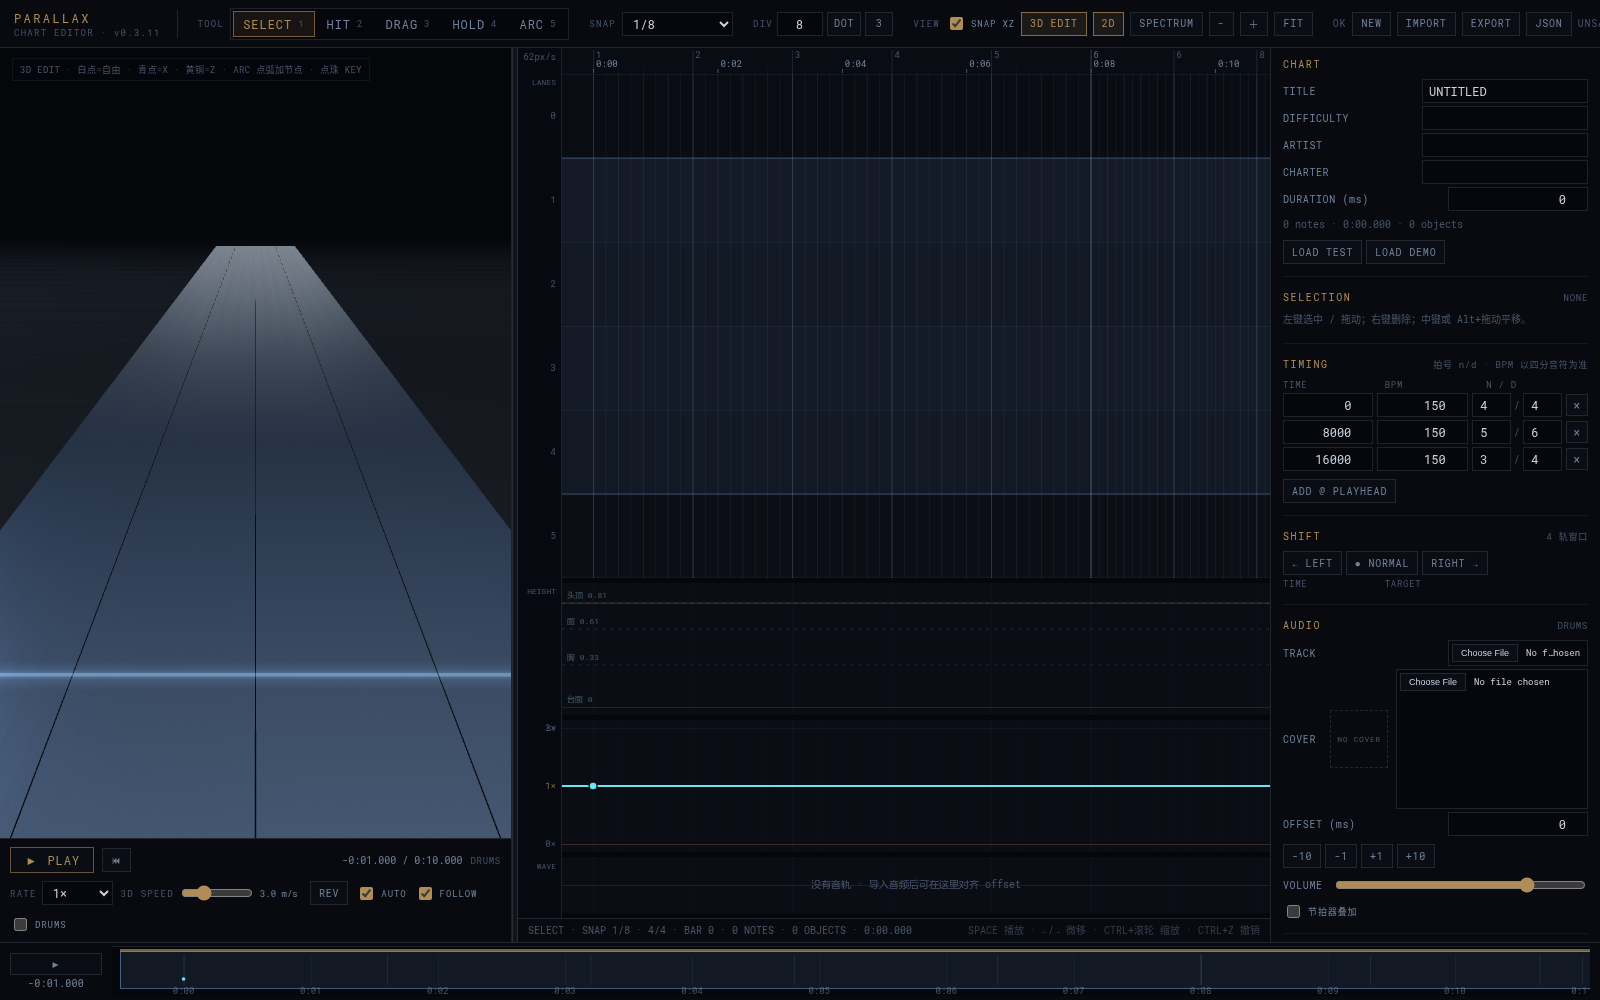
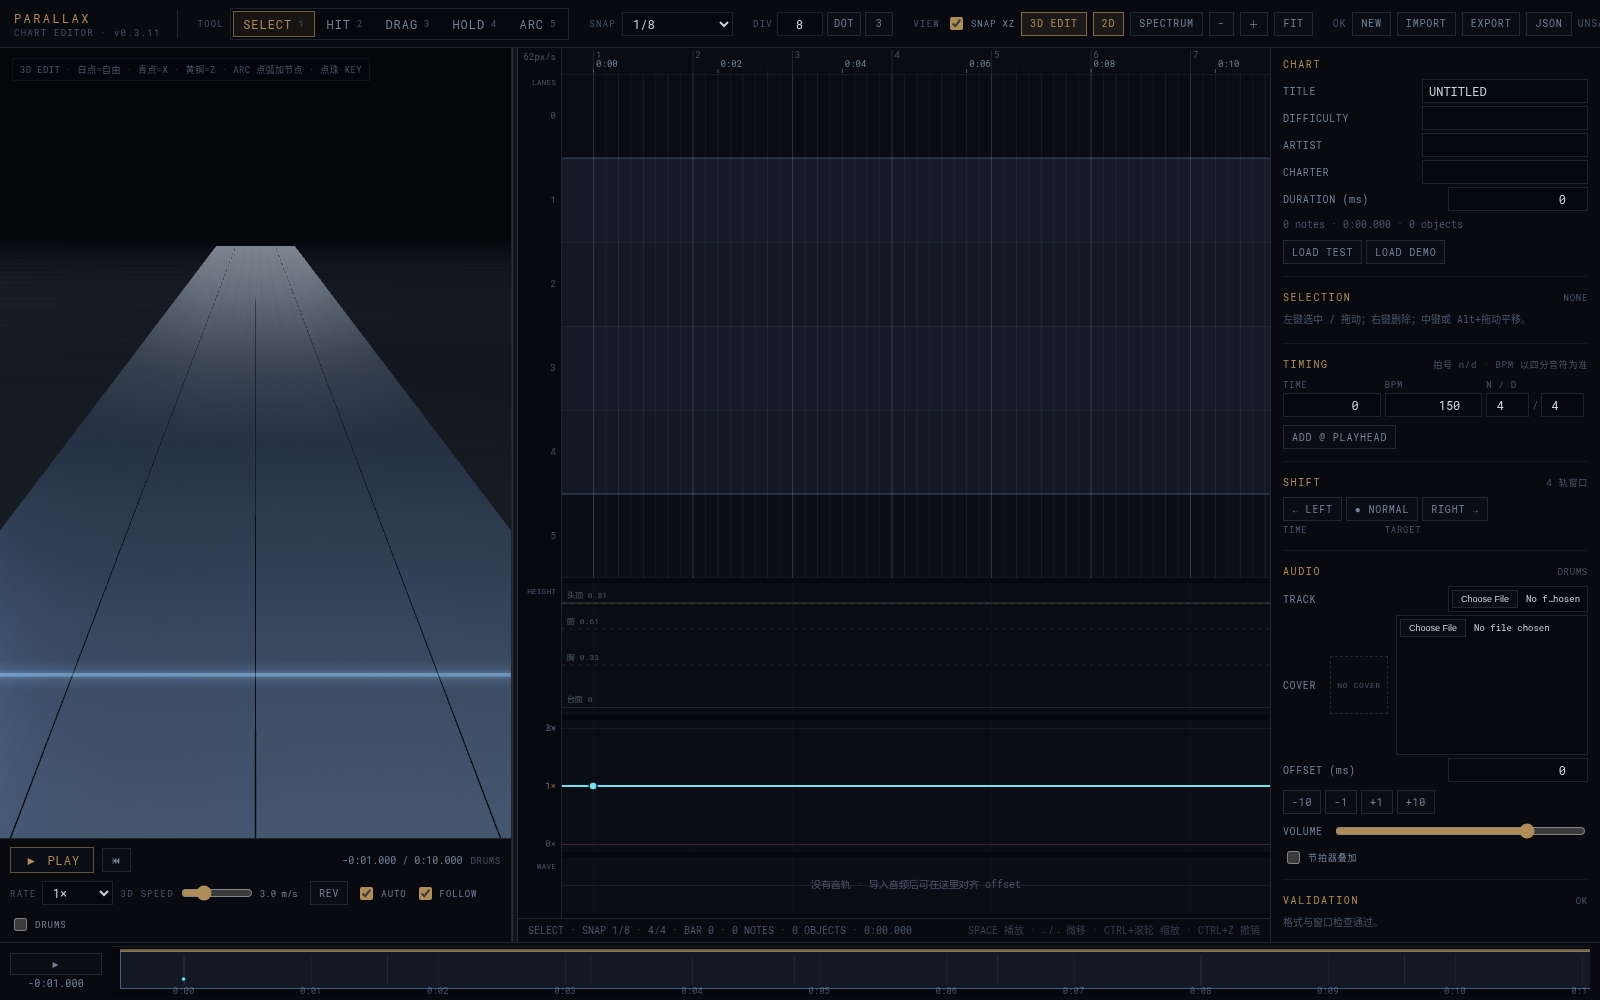
feat(editor): snap presets follow the time signature

diff --git a/prototype/src/editor/model.ts b/prototype/src/editor/model.ts
@@ -68,7 +68,29 @@ export interface SnapPreset {
   spec: SnapSpec;
 }
 
-/** 只保留常用预设；五连 / 附点 / 自定义拍号由 DIV、DOT、3 三个控件直接改。 */
+/**
+ * 按拍号给 SNAP 预设：分母就是基准拍，k = 每拍细分几份。
+ * `4/4` → 1/4 · 1/8 · 1/12(三连) · 1/16 · 1/20(五连) · 1/24 · 1/32；
+ * `x/6` → 1/6 · 1/12 · 1/18(三连) · 1/24 · 1/30(五连) · 1/36 · 1/48。
+ * `div` 始终按“每全音符几份”记，所以标签的数字就是真实音值。
+ */
+export function snapPresetsFor(denominator: number): SnapPreset[] {
+  const d = Math.max(1, Math.round(denominator));
+  const spec = (div: number): SnapSpec => ({ div, dotted: false, triplet: false });
+  return [
+    { id: 'off', label: 'OFF（自由）', spec: SNAP_OFF },
+    { id: `1/${d}`, label: `1/${d}`, spec: spec(d) },
+    { id: `1/${d * 2}`, label: `1/${d * 2}`, spec: spec(d * 2) },
+    { id: `1/${d * 3}`, label: `1/${d * 3}（三连）`, spec: spec(d * 3) },
+    { id: `1/${d * 4}`, label: `1/${d * 4}`, spec: spec(d * 4) },
+    { id: `1/${d * 5}`, label: `1/${d * 5}（五连）`, spec: spec(d * 5) },
+    { id: `1/${d * 6}`, label: `1/${d * 6}`, spec: spec(d * 6) },
+    { id: `1/${d * 8}`, label: `1/${d * 8}`, spec: spec(d * 8) },
+    { id: 'custom', label: 'CUSTOM…', spec: spec(d * 2) },
+  ];
+}
+
+/** 4/4 的默认预设（页面初始 / 还没读到谱面时用）。 */
 export const SNAP_PRESETS: SnapPreset[] = [
   { id: 'off', label: 'OFF（自由）', spec: SNAP_OFF },
   { id: '1/4', label: '1/4', spec: { div: 4, dotted: false, triplet: false } },
@@ -98,14 +120,14 @@ export function snapLabel(spec: SnapSpec): string {
   return label;
 }
 
-export function snapPreset(id: string): SnapPreset | undefined {
-  return SNAP_PRESETS.find((preset) => preset.id === id);
+export function snapPreset(id: string, denominator = 4): SnapPreset | undefined {
+  return snapPresetsFor(denominator).find((preset) => preset.id === id);
 }
 
 /** 当前参数对应的预设 id；没有完全匹配的就是 CUSTOM。 */
-export function snapPresetFor(spec: SnapSpec): string {
+export function snapPresetFor(spec: SnapSpec, denominator = 4): string {
   if (spec.div <= 0) return 'off';
-  const match = SNAP_PRESETS.find(
+  const match = snapPresetsFor(denominator).find(
     (preset) =>
       preset.id !== 'custom' &&
       preset.spec.div === spec.div &&
@@ -204,8 +226,8 @@ export interface GridLine {
 /**
  * 收集 [from, to] 内的小节 / 拍 / 细分线。
  *
- * `subBeats` 是细分步长（拍）：0.25 = 每拍 4 格。> 1 只在拍线上画，
- * 避免 1/3（4/3 拍）这种吸附把网格画成非整数拍。
+ * `subBeats` 以**四分音符**为单位（和 `snapBeats` 一致）：0.25 = 十六分音符。
+ * 段内再按拍号换算成“拍”：`x/6` 的 1/8 音符 = 0.75 拍，网格照样对齐。
  */
 export function collectGridLines(chart: Chart, from: number, to: number, subBeats: number): GridLine[] {
   const lines: GridLine[] = [];
@@ -222,8 +244,10 @@ export function collectGridLines(chart: Chart, from: number, to: number, subBeat
     if (end < start) continue;
 
     const beat = beatMsOf(point);
-    const stepMs = beat * step;
-    const beatsPerBar = meterOf(point).numerator;
+    const { denominator, numerator: beatsPerBar } = meterOf(point);
+    // 1 个四分音符 = 4/denominator 拍
+    const stepBeats = (step * denominator) / 4;
+    const stepMs = beat * stepBeats;
     // 从段起点往前找第一个 >= start 的网格。
     const firstIndex = Math.ceil((start - point.time) / stepMs - 1e-9);
     for (let index = firstIndex; ; index += 1) {
@@ -231,10 +255,10 @@ export function collectGridLines(chart: Chart, from: number, to: number, subBeat
       if (time > end + 1e-6) break;
       if (time < from - 1e-6) continue;
       // 落在整拍上才是拍 / 小节，其余都是细分（对 1/16、1/12、1/8 … 都成立）。
-      const beatIndex = index * step;
-      const rounded = Math.round(beatIndex);
+      const beatPos = (time - point.time) / beat;
+      const rounded = Math.round(beatPos);
       const kind: GridLine['kind'] =
-        Math.abs(beatIndex - rounded) < 1e-6
+        Math.abs(beatPos - rounded) < 1e-6
           ? rounded % beatsPerBar === 0
             ? 'bar'
             : 'beat'
@@ -243,6 +267,32 @@ export function collectGridLines(chart: Chart, from: number, to: number, subBeat
       if (lines.length > 4000) return lines;
     }
   }
+
+  // 网格步长不一定整除小节（5/6 上用 1/8 音符时就是这样），
+  // 所以小节线再单独补一遍，保证换拍号后小节不会被漏画。
+  const seen = new Set<number>(lines.map((line) => Math.round(line.time * 2)));
+  for (let i = 0; i < timing.length; i += 1) {
+    const point = timing[i]!;
+    const next = timing[i + 1];
+    const segmentEnd = next ? next.time : to;
+    const barMs = beatMsOf(point) * meterOf(point).numerator;
+    if (!(barMs > 0)) continue;
+    const start = Math.max(point.time, from);
+    const end = Math.min(segmentEnd, to);
+    if (end < start) continue;
+    const firstBar = Math.ceil((start - point.time) / barMs - 1e-9);
+    for (let n = firstBar; ; n += 1) {
+      const time = point.time + n * barMs;
+      if (time > end + 1e-6) break;
+      const key = Math.round(time * 2);
+      if (seen.has(key)) continue;
+      seen.add(key);
+      lines.push({ time, kind: 'bar' });
+      if (lines.length > 4000) break;
+    }
+  }
+
+  lines.sort((a, b) => a.time - b.time);
   return lines;
 }
 

diff --git a/prototype/src/editor/controller.ts b/prototype/src/editor/controller.ts
@@ -28,6 +28,7 @@ import {
   snapLabel,
   snapPreset,
   snapPresetFor,
+  snapPresetsFor,
   snapTime,
   sortChart,
   timingAt,
@@ -170,6 +171,8 @@ export class EditorController implements EditorHost, InspectorHost {
   private uiDirty = true;
   private lastUiTime = Number.NaN;
   private readonly lastUi = { play: '', overview: '', time: '', audio: '', reverse: '', status: '' };
+  /** 播放头所在段的拍号分母；SNAP 预设按它重建。 */
+  private snapDenominator = 4;
   private follow = true;
 
   constructor(elements: EditorElements) {
@@ -319,7 +322,7 @@ export class EditorController implements EditorHost, InspectorHost {
     }
     this.syncSnapUi();
     this.elements.snap.addEventListener('change', () => {
-      const preset = snapPreset(this.elements.snap.value);
+      const preset = snapPreset(this.elements.snap.value, this.snapDenominator);
       if (preset && preset.id !== 'custom') this.setSnap(preset.spec);
     });
     this.elements.snapDiv.addEventListener('change', () => {
@@ -709,8 +712,25 @@ export class EditorController implements EditorHost, InspectorHost {
     this.updateUi();
   }
 
+  /** 按拍号重建 SNAP 下拉：分母一变，预设的数字就跟着变。 */
+  private rebuildSnapOptions(denominator: number): void {
+    const select = this.elements.snap;
+    select.replaceChildren();
+    for (const preset of snapPresetsFor(denominator)) {
+      const node = document.createElement('option');
+      node.value = preset.id;
+      node.textContent = preset.label;
+      select.append(node);
+    }
+    // 当前 DIV 不在新拍号的预设里：把 CUSTOM 标签写清楚，别只剩一个 CUSTOM…
+    if (snapPresetFor(this.snap, denominator) === 'custom') {
+      const custom = select.querySelector<HTMLOptionElement>('option[value="custom"]');
+      if (custom) custom.textContent = `CUSTOM · 1/${this.snap.div}`;
+    }
+  }
+
   private syncSnapUi(): void {
-    this.elements.snap.value = snapPresetFor(this.snap);
+    this.elements.snap.value = snapPresetFor(this.snap, this.snapDenominator);
     this.elements.snapDiv.value = String(this.snap.div);
     this.elements.snapDot.classList.toggle('is-active', this.snap.dotted);
     this.elements.snapTriplet.classList.toggle('is-active', this.snap.triplet);
@@ -1056,6 +1076,12 @@ export class EditorController implements EditorHost, InspectorHost {
   private refreshStatus(): void {
     const info = this.timeline.barBeat(this.preview.state.timeMs);
     const meter = info ? `${info.numerator}/${info.denominator} · BAR ${info.bar + 1}` : '—';
+    const denominator = info?.denominator ?? 4;
+    if (denominator !== this.snapDenominator) {
+      this.snapDenominator = denominator;
+      this.rebuildSnapOptions(denominator);
+      this.syncSnapUi();
+    }
     const status = `${TOOL_LABELS[this.tool]} · SNAP ${snapLabel(this.snap)} · ${meter} · ${this.chart.notes.length} NOTES · ${countObjects(this.chart)} OBJECTS · ${formatTime(chartDuration(this.chart))}`;
     if (status === this.lastUi.status) return;
     this.lastUi.status = status;

diff --git a/prototype/STATUS.md b/prototype/STATUS.md
@@ -48,7 +48,7 @@
 - **Songs 滚动（2026-10-22）**：列表从固定 4 行改为 4 行窗口 + 摇杆滚动（`hands.stickY`，axes[3] / axes[1]）；另有 ↑/↓ 箭头、滚动条、`n–m / total` 计数；换歌自动把选中项滚进视野。
 - **Combo HUD（2026-10-22）**：[`src/scene/comboHud.ts`](src/scene/comboHud.ts) 世界固定 Sprite，位置 `(0, 1.80, −2.60)`（高于眼高与最高 note；玩家靠近 1.9m 内淡出）；大数字 + 小标签；0 隐藏、MISS 快速淡出、命中轻微脉冲；只在 combo 变化时重绘纹理；`?comboX` / `?comboY` / `?comboZ` 可调。修过一次实现 bug：缺 `?comboZ` 时 `Number(null) === 0` 把 HUD 放到 `(0, 0, 0)`（玩家头里）。
 - **默认难度 / tier 色（2026-10-22）**：编辑器新谱默认难度改为空字符串（不再写 `IN 1`）；五个 tier 的主题色 + 动效定稿，记录在 [`../parallax-idea.md`](../parallax-idea.md) §3 与 [`FUTURE.md`](FUTURE.md) §0.1，**未实现 tier UI**。
-- **自由拍号（2026-10-23）**：`TimingPoint` 增加 `numerator` / `denominator`（`4/4`、`5/6`、`4/3` 都能写），BPM 以四分音符为参照；编辑器 timing 行改成 `N / D` 两个输入，网格按段重算、小节号跨段累加，状态栏实时显示 `N/D · BAR n`；合成鼓组按拍号配重音。旧谱 `beats` 仍兼容。
+- **自由拍号（2026-10-23）**：`TimingPoint` 增加 `numerator` / `denominator`（`4/4`、`5/6`、`4/3` 都能写），BPM 以四分音符为参照；编辑器 timing 行改成 `N / D` 两个输入，网格按段重算、小节号跨段累加，状态栏实时显示 `N/D · BAR n`；SNAP 预设跟着拍号变（5/6 下是 1/6、1/12、1/18…）；合成鼓组按拍号配重音。旧谱 `beats` 仍兼容。
 - **结算评级（2026-10-23）**：Result 改为双栏新版——左栏分数 / 曲名 / 四事实 / 判定条 / 按钮，右栏评级锁版（canvas 复刻，cap 52）+ PERFECT/GOOD/MISS + GOOD TIMING；CLEAR / FAILED 27px。阈值 `<80 D … 99 EQV- / 100 EQV`。
 - **暂停路径确认（2026-10-22）**：Quest 3 浏览器不暴露 menu 键，实际只有左手 Y 长按 400ms 可用；UI 文案与文档同步。
 - **暂缓**：无物量时立即结算，暂不按包内 `meta.duration` 等待；等 Infinity Heaven 谱面补充完成后再处理。

diff --git a/prototype/EDITOR.md b/prototype/EDITOR.md
@@ -205,16 +205,20 @@ arc 的点列就是 `points[]`；可以任意多段，每段一个缓动。
 
 | 控件 | 含义 |
 | --- | --- |
-| `SNAP` 预设 | OFF / 1/4 / 1/8 / 1/12（三连）/ 1/16 / 1/20（五连）/ 1/24 / 1/32 |
+| `SNAP` 预设 | OFF / 1/4 / 1/8 / 1/12（三连）/ 1/16 / 1/20（五连）/ 1/24 / 1/32 —— **随拍号变** |
 | `DIV` | 每全音符分几份：8 = 1/8，20 = 1/20；可以直接填任意 1–64 |
 | `DOT` | 附点，×1.5 |
 | `3` | 三连，×2/3 |
 
-- 吸附步长（拍） = `4 / DIV`，再按 DOT / 3 乘系数。
+- **预设跟着拍号走**：分母就是基准拍，k = 每拍细分几份，列表是 `1/d · 1/2d · 1/3d（三连）· 1/4d · 1/5d（五连）· 1/6d · 1/8d`。
+  `4/4` → 1/4、1/8、1/12、1/16、1/20…；`5/6` → 1/6、1/12、1/18、1/24、1/30…；`3/4`、`6/8` 同理。
+  当前 DIV 不在新拍号的预设里时，下拉会显示 `CUSTOM · 1/8`，不会静默改掉你的吸附。
+- 吸附步长 = `4 / DIV` 个**四分音符**，再按 DOT / 3 乘系数；因为标签是“每全音符几份”，
+  在 `5/6` 里选 `1/8` 就是 0.75 拍，和网格线严格对齐。
 - 例如：五连 = `DIV 20`；附点八分 = `DIV 8` + `DOT`；三连八分 = `DIV 8` + `3`（也等于 `DIV 12`）。
 - 改了 DIV / DOT / 3 后下拉框显示 `CUSTOM`；再点任意预设就回到预设。
 - 网格基于 `timing` 的拍号：检查器里每个 timing 点有 `N / D` 两个输入（`4/4`、`5/6`、`4/3` 都行），换段时按段重新起拍，小节线 / 拍线 / 细分线一起重算；
-  小节编号跨段连续累加。
+  小节编号跨段连续累加；小节线即使不被细分步长整除也会单独补画。
 - 状态栏实时显示播放头所在的 `N/D · BAR n`，播放中换拍号会立刻跳变。
 - 拖动、放置、播放头移动、shift / SV 点的时间、**3D 放置 / 3D 弧上插点**都用同一个吸附函数。
 - 显示：小节线较亮，拍线次之，细分线更暗；细分间距小于 7px 时自动不画。

diff --git a/CHANGELOG.md b/CHANGELOG.md
@@ -9,7 +9,7 @@
 - 修复 Combo HUD 出现在玩家头里的问题：`?comboZ` 缺省时 `Number(null) === 0`，把位置读成了 `(0, 0, 0)`；缺参数现在按 `null` 处理，不覆盖默认位置。同时加「离头 1.9m 起淡出、1.1m 完全消失」，避免前倾时怼到脸上。
 - Quest 3 上 menu 键不暴露给 WebXR，暂停实际只走左手 Y 长按 400ms；面板 footer / 首页提示文案改为 `Y HOLD = PAUSE`，诊断提示同步。
 - 编辑器新谱默认难度改为空（不再自动写 `IN 1`）；`meta.difficulty` 仍兼容旧谱字符串。浮空显示对空难度回退为 `—`。
-- 自由拍号：`timing` 支持 `numerator` / `denominator`（含 `5/6` 这类分母），BPM 以四分音符为准；编辑器 `/` 输入、网格按段重算、小节号连续、状态栏显示当前拍号；合成鼓组改成拍号感知。旧谱 `beats` 兼容。
+- 自由拍号：`timing` 支持 `numerator` / `denominator`（含 `5/6` 这类分母），BPM 以四分音符为准；编辑器 `/` 输入、SNAP 预设随拍号变（含 5/6 的 1/6 · 1/12 · 1/18…）、网格按段重算、小节线单独补画、小节号连续、状态栏显示当前拍号；合成鼓组改成拍号感知。旧谱 `beats` 兼容。
 - 结算画面加入评级：`<80 D / 80 C / 85 B / 90 A / 95 APX / 97 ASM / 98 CGR / 99 EQV- / 100 EQV`，
   评级锁版（三字母 + 自绘数学记号）画在右栏顶部；CLEAR / FAILED 升为 27px 大字状态。
 - 五个难度 tier 的主题色与动效定稿并写入文档（`parallax-idea.md` §3 / `FUTURE.md` §0.1）：钢灰、绿（呼吸）、琥珀（警报闪烁）、荧光洋红（自发光）、Wien ∞ K 蓝 `#7F9FFF`（更亮自发光 + 选歌界面除封面外降饱和）。**未实现任何 tier UI**。

diff --git a/prototype/FUTURE.md b/prototype/FUTURE.md
@@ -109,7 +109,7 @@
 
 - **弱起 / pickup**（小节第一拍之前的部分）没有专门表达，只能把 timing 点放在弱起结束处；
 - 拍号变化时的**小节内断点**（比如 4/4 的第三拍切到 3/4）目前不允许，换段一律从小节线开始；
-- 拍号预设菜单（现在只有两个数字输入，没有 `4/4`、`6/8` 之类的快捷项）。
+- 新增 timing 段时的拍号快捷项（`4/4`、`6/8` 一键插入）还没有，只有两个数字输入。
 
 验收：
 
